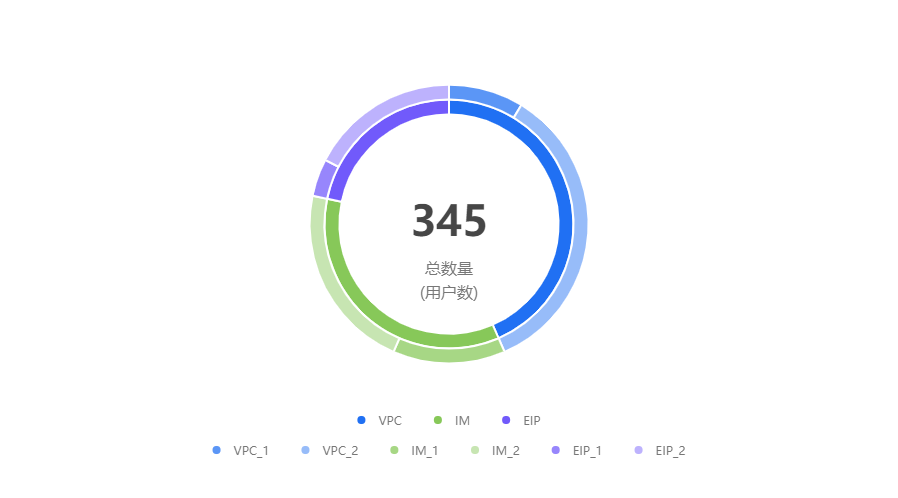
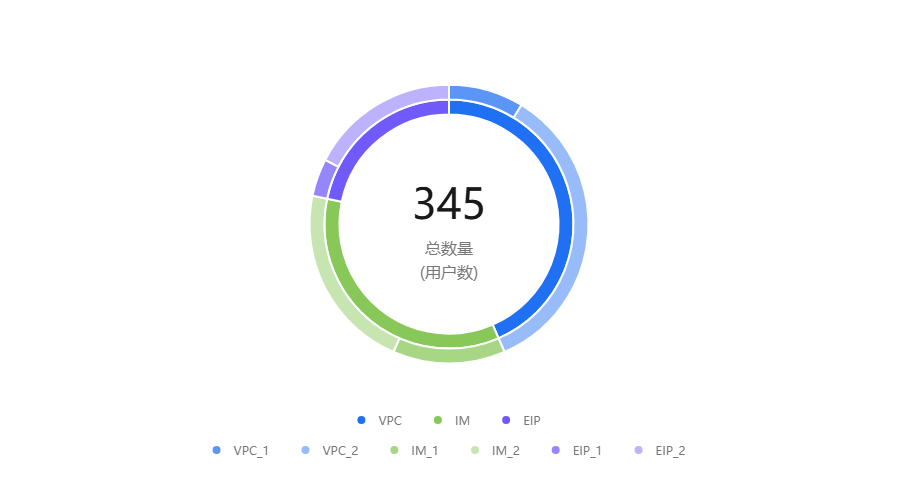
docs(PieChart): modify the api and screenshots

Changed region(s): [[0.4677, 0.3614, 0.5612, 0.6024]]

diff --git a/src/components/PieChart/handleSeries.js b/src/components/PieChart/handleSeries.js
@@ -135,11 +135,11 @@ function mergeDefaultSeries(seriesUnit) {
   }
 }
 
-// 设置给定color
+// 给某个data指定的颜色
 function setColor(iChartOption) {
   const data = iChartOption.data;
   let initColorGroup = iChartOption.initColor.concat();
-  const colorData = iChartOption.dataSeting && iChartOption.dataSeting.color;
+  const colorData = iChartOption.dataRules && iChartOption.dataRules.color;
   if (colorData && isArray(initColorGroup)) {
     for (let key in colorData) {
       data.forEach((item, index) => {
@@ -186,7 +186,7 @@ function handleSeries(pieType, iChartOption, chartInstance, position, legend) {
   }
   // 保留初始的颜色数组
   iChartOption.initColor = iChartOption.color;
-  // 设置给定的颜色
+  // 给某个data指定的颜色
   setColor(iChartOption);
   selfSeries.forEach(seriesItem => {
     const seriesUnit = seriesItem;

diff --git a/public/option/PieChart/PieChart-11.js b/public/option/PieChart/PieChart-11.js
@@ -18,12 +18,12 @@ const option = {
                 b: {
                     fontSize: 36,
                     fontWeight: 'bold',
-                    padding: [10, 0, 0, 20]
+                    padding: [10, 0, -20, 20]
                 },
                 c: {
                     fontSize: 24,
                     color: '#bbbbbb',
-                    padding: [10, 10, 0, 0]
+                    padding: [10, 0, -20, 0]
                 },
                 d: {
                     width: 12,

diff --git a/doc/api/PieChart/index.js b/doc/api/PieChart/index.js
@@ -34,7 +34,7 @@ const data = {
         ['stillShowZeroSum', '是否在数据和为0的时候仍显示扇区', 'boolean', 'true'],
         ['selectedMode', '扇区选中模式配置', 'boolean', 'false'],
         ['roseType', '是否展示成南丁格尔图', 'boolean', 'false'],
-        ['dataRules', '设置特定颜色', 'object', '无'],
+        ['dataRules', '某个数据设置指定颜色', 'object', '无'],
 
     ],
     markdown: [

diff --git a/doc/api/PieChart/label.md b/doc/api/PieChart/label.md
@@ -5,12 +5,11 @@ label:{
     show:true,
     type:'percent',
     line:true,
-    distance:25
     lineColor:'#eee'
 }
 ```
 
-说明：图表的外侧文本相关配置<br>`show` 控制是否显示文本<br>`type` 圆盘外侧显示的文本格式<br>`line` 为展示图表与外侧文本之间的连线<br>`distance` 为图表与外侧文本之间的距离<br>`lineColor` 为图表与外侧文本之间的连线的颜色
+说明：图表的外侧文本相关配置<br>`show` 控制是否显示文本<br>`type` 圆盘外侧显示的文本格式<br>`line` 为展示图表与外侧文本之间的连线<br>`lineColor` 为图表与外侧文本之间的连线的颜色
 
 <p class='ev_expand_title'>label.show<span class='ev_expand_required'>非必填</span><span class='ev_expand_defaults'>有默认值</span><span class='ev_expand_type'>Boolean</span>
 <p class='ev_expand_introduce'>默认值：<code>true</code>
@@ -31,16 +30,11 @@ label:{
 
 <p class='ev_expand_introduce'>说明：是否展示图表与外侧文本之间的连线
 
-<p class='ev_expand_title'>label.distance<span class='ev_expand_required'>非必填</span><span class='ev_expand_defaults'>有默认值</span><span class='ev_expand_type'>Number</span>
+<p class='ev_expand_title'>label.lineColor<span class='ev_expand_required'>非必填</span><span class='ev_expand_defaults'>有默认值</span><span class='ev_expand_type'>String</span>
 
-<p class='ev_expand_introduce'>默认值：<code>25</code>
-
-<p class='ev_expand_introduce'>说明：图表与外侧文本之间的距离
+<p class='ev_expand_introduce'>说明：图表与外侧文本之间连线的颜色
 
 <p class='ev_expand_title'>label.labelHtml<span class='ev_expand_required'>非必填</span><span class='ev_expand_defaults'>有默认值</span><span class='ev_expand_type'>Function</span>
 
 <p class='ev_expand_introduce'>说明：用来自定义label的内容，参考formatter格式
 
-<p class='ev_expand_title'>label.lineColor<span class='ev_expand_required'>非必填</span><span class='ev_expand_defaults'>有默认值</span><span class='ev_expand_type'>String</span>
-
-<p class='ev_expand_introduce'>说明：图表与外侧文本之间连线的颜色

diff --git a/doc/api/PieChart/dataRulesMd.md b/doc/api/PieChart/dataRulesMd.md
@@ -1,14 +1,11 @@
-说明：可以根据data数据中的name为其设置特定的颜色
-
 格式：
 
 ```d
 dataRules:{
     color:{
-        name:'red'
+        'VPC':'#ff0000'
     }
 }
 ```
 
-<p class='ev_expand_title'>dataRules.color<span class='ev_expand_required'>非必填</span><span class='ev_expand_defaults'>无默认值</span>
-
+说明：可以根据data数据中的某个`name`为其设置指定的颜色。
